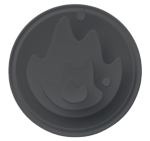
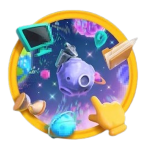
Add 700 day image

diff --git a/_posts/2024-04-07-reddit-mobile-achievements-guide.md b/_posts/2024-04-07-reddit-mobile-achievements-guide.md
@@ -4,7 +4,7 @@ image: /assets/images/banners/reddit-achievements.png
 tags:
   - Reddit
   - Achievements
-last_modified_at: 2025-07-05
+last_modified_at: 2025-10-12
 ---
 
 In April 2024, Reddit added 18 achievements to the mobile app, grouped into 3 categories (and added 30+ more & outfits later). Here's all the details, and how to unlock all 59 achievements!
@@ -70,7 +70,7 @@ The streak achievements are simple loyalty rewards, requiring some sort of activ
 
 [![Reddit streak achievement tracking](/assets/images/2024/reddit-streak.png)](/assets/images/2024/reddit-streak.png)
 
-Note that a few of these achievements cannot be obtained yet, as the achievements have not been out long enough. The 500-day achievement was earned by [u/Excalibur_Playz](https://www.reddit.com/user/Excalibur_Playz) on the [27th March](https://www.reddit.com/r/Redditachievments/comments/1jlb0i5/yes_i_am_the_9th_person_in_the_world_to_get_this/?share_id=FX_aJV8xo2Oq_P6xq77RH), so the 600 day should be available early July! Reddit seems to regularly add new streak badges (or adjust existing ones), with a batch of 7 being added in February 2025 before being mostly removed in March.
+Note that one of these achievements cannot be obtained yet, with the final 730-day achievement expecting to be first unlocked in mid-November.
 
 |                                                                                                                                                                                                                                        |                                                                                                                                                                                                                                                            |                                                                                                                                                                                                                                        |
 | :------------------------------------------------------------------------------------------------------------------------------------------------------------------------------------------------------------------------------------: | :--------------------------------------------------------------------------------------------------------------------------------------------------------------------------------------------------------------------------------------------------------: | :------------------------------------------------------------------------------------------------------------------------------------------------------------------------------------------------------------------------------------: |
